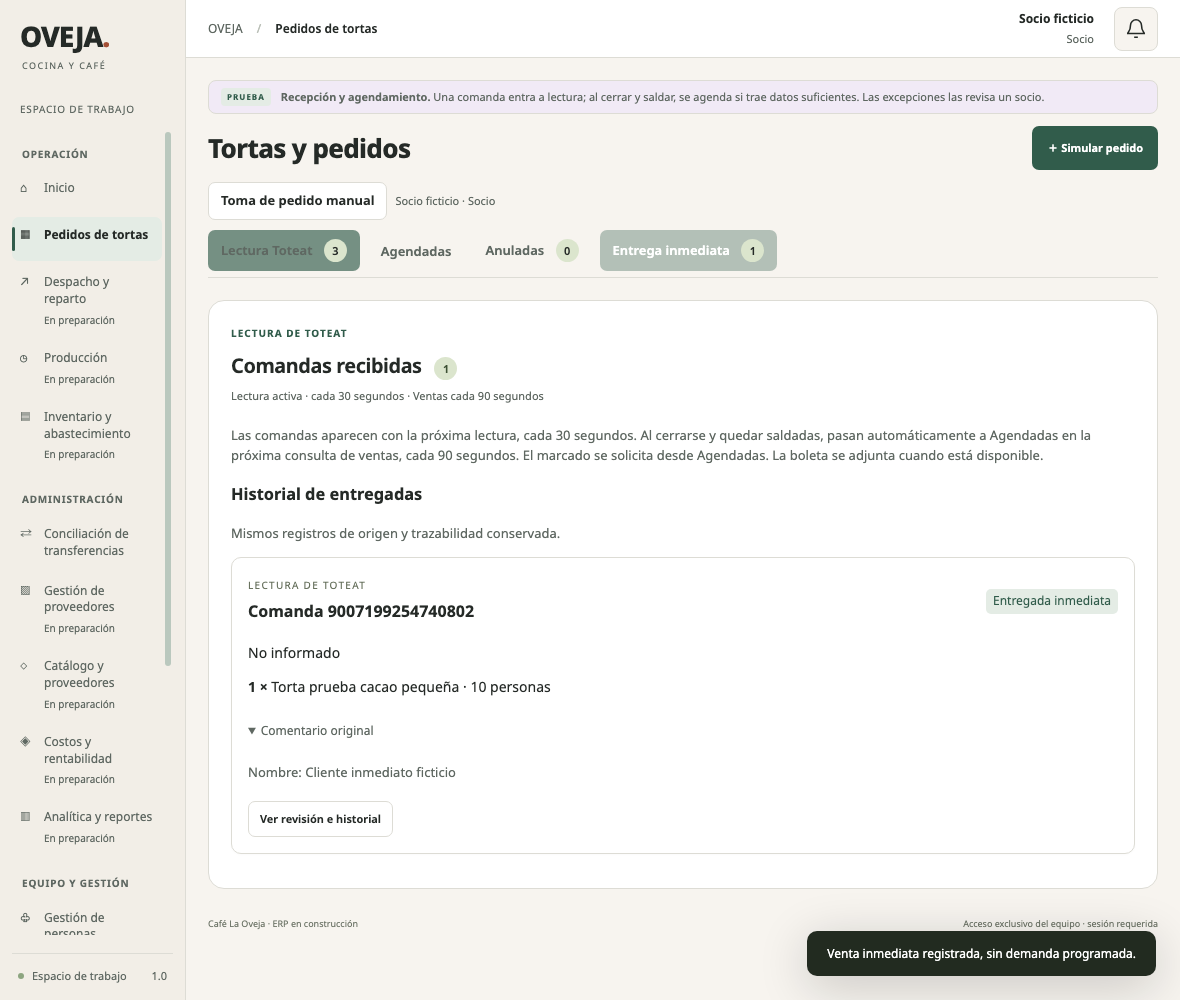
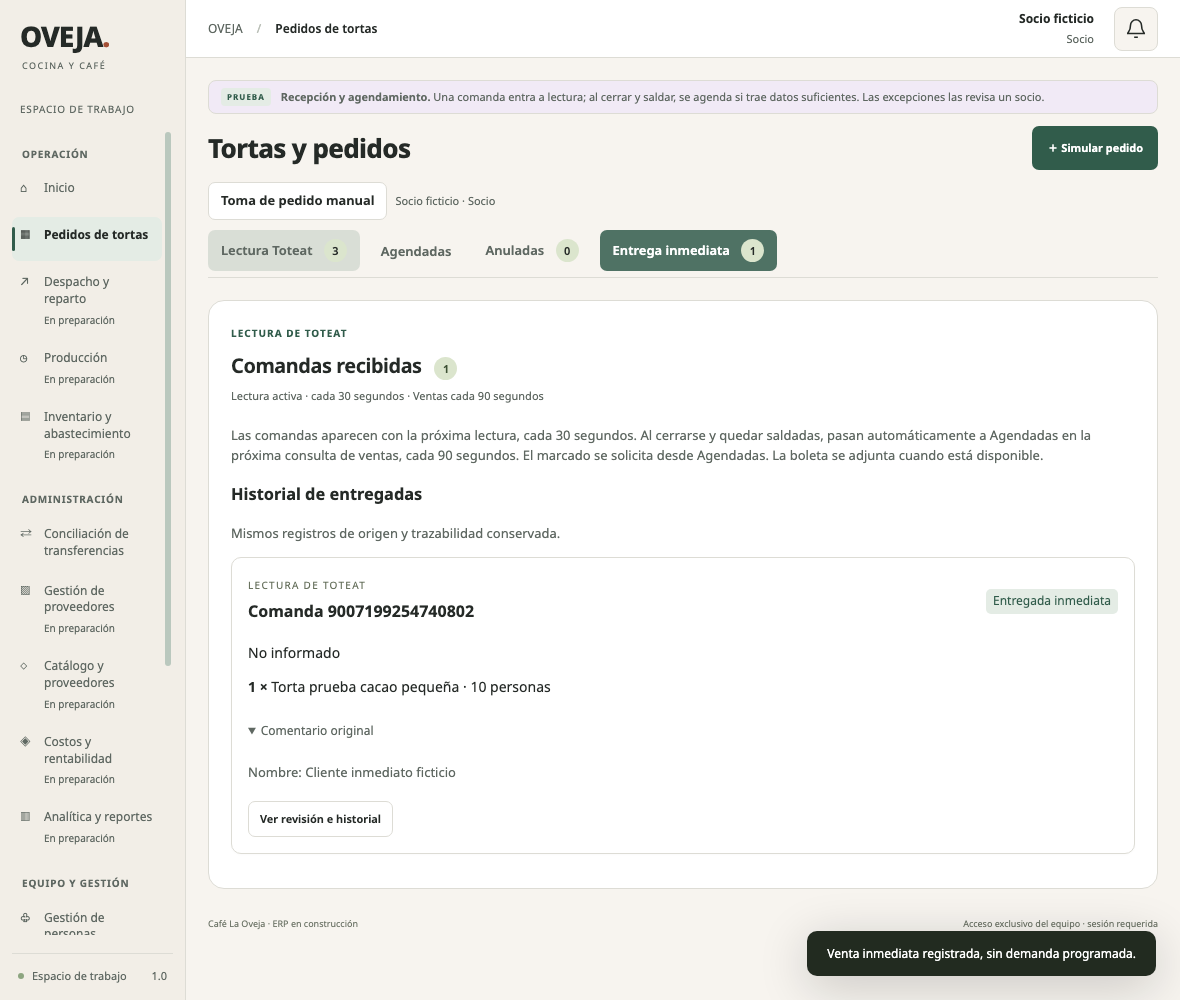
Finish HTTPS release with private evidence previews and deployment checks

Changed region(s): [[0.4881, 0.217, 0.6712, 0.279], [0.1525, 0.217, 0.3051, 0.279]]

diff --git a/static/reception.js b/static/reception.js
@@ -10,10 +10,10 @@ function receptionCard(order,resolved=false) {
   const immediate=reception.decision?.decision==='immediate';
   const closed=Boolean(reception.closed_at||order.sales_comment_evidence?.length||order.status_label==='CLOSED');
   const incomplete=reception.can_classify_immediate===true;
-  const title=alert?sourceAlertLabel(alert):immediate?'Entregada inmediata':reception.web_delivery_review?'Revisar modalidad web':incomplete?'Revisar tipo de entrega':closed&&!reception.closed_payload_received?'Esperando datos de venta cerrada':closed&&!reception.payment?'Mesa cerrada · revisar pago':closed?'Pendiente de revisión':'Esperando pago y cierre · Datos pendientes de recibir';
+  const title=alert?sourceAlertLabel(alert):immediate?'Entregada inmediata':reception.web_delivery_review?'Revisar programación web':incomplete?'Revisar tipo de entrega':closed&&!reception.closed_payload_received?'Esperando datos de venta cerrada':closed&&!reception.payment?'Mesa cerrada · revisar pago':closed?'Pendiente de revisión':'Esperando pago y cierre · Datos pendientes de recibir';
   const missing=reception.missing_fields||[...(reception.parsed?.issues||[]),...(reception.parsed?.warnings||[])].map(code=>({nombre_pendiente:'Nombre y apellido',fecha_pendiente:'Fecha de entrega',horario_pendiente:'Hora de entrega',telefono_pendiente:'Teléfono'}[code])).filter(Boolean);
 
-  return `<article class="reception-card"><header><div><small>LECTURA DE TOTEAT</small><h3>Comanda ${escapeHTML(order.order_id)}</h3></div><span class="timing-label">${escapeHTML(title)}</span></header><p>${escapeHTML(reception.channel||'No informado')}${order.vendor?` · ${escapeHTML(order.vendor)}`:''}</p>${sourceAlertHTML(alert)}${order.items.map(item=>`<p><strong>${escapeHTML(item.quantity)} ×</strong> ${escapeHTML(item.productName||'Producto del catálogo')}</p>`).join('')}<details data-comment-key="${escapeHTML(order.key)}" ${state.commentDisclosure.get(order.key)!==false?'open':''}><summary>Comentario original</summary><p class="source-comment">${escapeHTML(reception.closed_payload_received?(reception.original_comment||'La venta cerrada no trae comentario.'):(reception.original_comment||order.comments.map(c=>c.text).join('\n')||'Datos pendientes de recibir desde Toteat.'))}</p></details>${incomplete&&!immediate?`<p class="hint">Falta revisar: ${missing.map(escapeHTML).join(' · ')}. Confirma si fue entrega inmediata o completa los datos de agendamiento.</p>`:''}${reception.payment&&!immediate&&!reception.order_id?'<p class="hint">Venta cerrada y saldada. Completa los datos para agendar o clasifica como venta inmediata de stock.</p>':''}<div class="actions">${state.partner?`<button class="button ${resolved?'secondary':'primary'}" data-action="reception" data-key="${escapeHTML(order.key)}">${resolved?'Ver revisión e historial':alert&&!alert.resolution?'Revisar anulación':reception.order_id?'Revisar alerta y pedido':reception.payment?'Completar o clasificar':'Forzar agendamiento'}</button>`:'<small>La revisión y autorización corresponden a un socio.</small>'}${state.partner&&!resolved&&reception.can_classify_immediate===true?`<button class="button secondary" data-action="reception-immediate-open" data-key="${escapeHTML(order.key)}">Pasar a venta inmediata</button>`:''}${reception.order_id?`<button class="button secondary" data-action="detail" data-id="${reception.order_id}">Ver pedido agendado</button>`:''}</div></article>`;
+  return `<article class="reception-card"><header><div><small>LECTURA DE TOTEAT</small><h3>Comanda ${escapeHTML(order.order_id)}</h3></div><span class="timing-label">${escapeHTML(title)}</span></header><p>${escapeHTML(reception.channel||'No informado')}${order.vendor?` · ${escapeHTML(order.vendor)}`:''}</p>${sourceAlertHTML(alert)}${reception.web_delivery_review?'<p class="hint">Modalidad web pendiente de verificar. Si el comentario pide otro día u hora, un socio debe confirmar la programación. El pago no acredita entrega.</p>':''}${order.items.map(item=>`<p><strong>${escapeHTML(item.quantity)} ×</strong> ${escapeHTML(item.productName||'Producto del catálogo')}</p>`).join('')}<details data-comment-key="${escapeHTML(order.key)}" ${state.commentDisclosure.get(order.key)!==false?'open':''}><summary>Comentario original</summary><p class="source-comment">${escapeHTML(reception.closed_payload_received?(reception.original_comment||'La venta cerrada no trae comentario.'):(reception.original_comment||order.comments.map(c=>c.text).join('\n')||'Datos pendientes de recibir desde Toteat.'))}</p></details>${incomplete&&!immediate?`<p class="hint">Falta revisar: ${missing.map(escapeHTML).join(' · ')}. Confirma si fue entrega inmediata o completa los datos de agendamiento.</p>`:''}${reception.payment&&!immediate&&!reception.order_id?'<p class="hint">Venta cerrada y saldada. Completa los datos para agendar o clasifica como venta inmediata de stock.</p>':''}<div class="actions">${state.partner?`<button class="button ${resolved?'secondary':'primary'}" data-action="reception" data-key="${escapeHTML(order.key)}">${resolved?'Ver revisión e historial':alert&&!alert.resolution?'Revisar anulación':reception.order_id?'Revisar alerta y pedido':reception.payment?'Completar o clasificar':'Forzar agendamiento'}</button>`:'<small>La revisión y autorización corresponden a un socio.</small>'}${state.partner&&!resolved&&reception.can_classify_immediate===true?`<button class="button secondary" data-action="reception-immediate-open" data-key="${escapeHTML(order.key)}">Pasar a venta inmediata</button>`:''}${reception.order_id?`<button class="button secondary" data-action="detail" data-id="${reception.order_id}">Ver pedido agendado</button>`:''}</div></article>`;
 }
 function renderToteat() {
   const board=state.board,reader=board.toteat||{state:'not_configured',orders:[]};

diff --git a/static/transfers.js b/static/transfers.js
@@ -30,10 +30,10 @@ function renderClosures(selected){
   const rows=transferSnapshot?.closures||[],entry=rows.find(c=>c.date===selected)||rows[0],target=$('#transfer-results');
   if(!entry){target.innerHTML='<div class="empty compact">Ovejita todavía no tiene cierres archivados.</div>';return;}
   const r=entry.report;
-  target.innerHTML=`<label class="field">Fecha operativa<select id="closure-date">${rows.map(c=>`<option ${c===entry?'selected':''}>${escapeHTML(c.date)}</option>`).join('')}</select></label><h2>${escapeHTML(dateLabel(entry.date))}</h2><span class="timing-label">${r.completo?'Cierres disponibles':'Incompleto · requiere revisión'}</span>${(r.avisos||[]).map(a=>`<p class="source-alert">${escapeHTML(a)}</p>`).join('')}<div class="analytics-grid"><article><strong>${clp(r.total)}</strong><span>Ventas · ${r.ventas} ventas</span></article><article><strong>${clp(r.propinas)}</strong><span>Propinas</span></article><article><strong>${r.pendientes||0}</strong><span>Comprobantes pendientes</span></article><article><strong>${r.alertas_boleta||0}</strong><span>Alertas de boleta</span></article></div><h3>Ventas por caja</h3>${Object.entries(r.cajas||{}).map(([id,c])=>`<article class="transfer-row"><strong>${escapeHTML(id)} · ${escapeHTML(c.nombre)}</strong><span>${c.pagos} pagos · ${clp(c.total)} · Propinas ${clp(c.propinas)}</span></article>`).join('')}<h3>Medios de pago registrados</h3>${Object.entries(r.medios||{}).map(([k,v])=>`<p>${escapeHTML(k)} · ${clp(v)}</p>`).join('')}<h3>Aperturas y cierres</h3>${(r.cierres||[]).map(c=>`<article class="history-entry"><strong>Caja ${escapeHTML(c.caja)} · Turno ${escapeHTML(c.turno)} · ${c.cerrado?'Cerrada':'Abierta'}</strong><p>${escapeHTML(c.apertura)} → ${escapeHTML(c.cierre||'Pendiente')}</p></article>`).join('')}<p class="hint">${escapeHTML(r.base||'Fecha operativa informada por Toteat')}. Cajas excluidas: ${escapeHTML((r.excluidas||[]).join(', '))}. No confirma abonos bancarios.</p><details><summary>Detalle íntegro del informe conservado</summary><pre>${escapeHTML(JSON.stringify(r,null,2))}</pre></details>`;
+  target.innerHTML=`<label class="field">Fecha operativa<select id="closure-date">${rows.map(c=>`<option ${c===entry?'selected':''}>${escapeHTML(c.date)}</option>`).join('')}</select></label><h2>${escapeHTML(dateLabel(entry.date))}</h2><p class="hint">Envío del cierre: ${escapeHTML(entry.send_status||'Sin envío')}</p><span class="timing-label">${r.completo?'Cierres disponibles':'Incompleto · requiere revisión'}</span>${(r.avisos||[]).map(a=>`<p class="source-alert">${escapeHTML(a)}</p>`).join('')}<div class="analytics-grid"><article><strong>${clp(r.total)}</strong><span>Ventas · ${r.ventas} ventas</span></article><article><strong>${clp(r.propinas)}</strong><span>Propinas</span></article><article><strong>${r.pendientes||0}</strong><span>Comprobantes pendientes</span></article><article><strong>${r.alertas_boleta||0}</strong><span>Alertas de boleta</span></article></div><h3>Ventas por caja</h3>${Object.entries(r.cajas||{}).map(([id,c])=>`<article class="transfer-row"><strong>${escapeHTML(id)} · ${escapeHTML(c.nombre)}</strong><span>${c.pagos} pagos · ${clp(c.total)} · Propinas ${clp(c.propinas)}</span></article>`).join('')}<h3>Medios de pago registrados</h3>${Object.entries(r.medios||{}).map(([k,v])=>`<p>${escapeHTML(k)} · ${clp(v)}</p>`).join('')}<h3>Aperturas y cierres</h3>${(r.cierres||[]).map(c=>`<article class="history-entry"><strong>Caja ${escapeHTML(c.caja)} · Turno ${escapeHTML(c.turno)} · ${c.cerrado?'Cerrada':'Abierta'}</strong><p>${escapeHTML(c.apertura)} → ${escapeHTML(c.cierre||'Pendiente')}</p></article>`).join('')}<p class="hint">${escapeHTML(r.base||'Fecha operativa informada por Toteat')}. Cajas excluidas: ${escapeHTML((r.excluidas||[]).join(', '))}. No confirma abonos bancarios.</p><details><summary>Detalle íntegro del informe conservado</summary><pre>${escapeHTML(JSON.stringify(r,null,2))}</pre></details>`;
 }
 function renderBotHealth(){
   const data=transferSnapshot;
-  $('#transfer-results').innerHTML=`<p class="hint">Última copia ${escapeHTML(data.updated_at)}${data.stale?' · Lectura atrasada':''}</p>${data.health.map(h=>`<article class="transfer-row"><div><h3>${escapeHTML(h.componente)}</h3><span class="timing-label">${escapeHTML(h.estado)}</span><p>${escapeHTML(h.detalle)}</p><small>${escapeHTML(h.fecha)}</small></div></article>`).join('')}<h3>Alertas operativas</h3>${(data.alerts||[]).map(a=>`<article class="history-entry"><strong>${escapeHTML(a.tipo)}</strong><p>${escapeHTML(a.detalle)}</p><small>${escapeHTML(a.fecha)}</small></article>`).join('')||'<p>Sin alertas operativas registradas.</p>'}`;
+  $('#transfer-results').innerHTML=`<p class="hint">Mensajes con envío incierto: ${Number(data.uncertain_messages||0)} · Última copia ${escapeHTML(data.updated_at)}${data.stale?' · Lectura atrasada':''}</p>${data.health.map(h=>`<article class="transfer-row"><div><h3>${escapeHTML(h.componente)}</h3><span class="timing-label">${escapeHTML(h.estado)}</span><p>${escapeHTML(h.detalle)}</p><small>${escapeHTML(h.fecha)}</small></div></article>`).join('')}<h3>Alertas operativas</h3>${(data.alerts||[]).map(a=>`<article class="history-entry"><strong>${escapeHTML(a.tipo)}</strong><p>${escapeHTML(a.detalle)}</p><small>${escapeHTML(a.fecha)}</small></article>`).join('')||'<p>Sin alertas operativas registradas.</p>'}`;
 }
 document.addEventListener('change',event=>{if(event.target.id==='closure-date')renderClosures(event.target.value);});

diff --git a/static/app.js b/static/app.js
@@ -35,7 +35,7 @@ $('#custom-range').classList.toggle('hidden',state.period!=='custom');
 $('#previous').disabled=state.period==='custom'; $('#next').disabled=state.period==='custom';
 const paymentLabel = order => order.toteat_schedule ? (order.toteat_schedule.payment.state === 'discount_settled' ? 'Saldado con descuento' : 'Pago registrado en Toteat') : order.manual_scheduling ? (order.manual_scheduling.payment_status==='unpaid' ? (order.scheduling_status==='draft'?'Sin pago · pendiente de autorización':'Agendado sin pago') : 'Pago verificado por socio · registro manual') : 'Pago simulado confirmado';
 const scheduleWarnings = {telefono_pendiente:'Teléfono pendiente',telefono_por_revisar:'Revisar teléfono',fecha_pasada:'La fecha indicada ya pasó',anio_inferido:'Año inferido de la fecha de la venta'};
-const receiptLinks = order => !can('receipt') ? 'Disponible para socios y caja' : order.receipt?.status === 'verified' ? `<a class="button secondary" href="/api/orders/${order.id}/receipt" target="_blank" rel="noopener">Ver boleta PDF</a> <a class="button secondary" href="/api/orders/${order.id}/receipt?download=1" download>Descargar para enviar</a>` : 'Boleta aún no recibida';
+const receiptLinks = order => !can('receipt') ? 'Disponible para socios y caja' : order.receipt?.status === 'verified' ? `<button class="button secondary" data-action="receipt-preview" data-id="${order.id}">Ver boleta PDF</button> <a class="button secondary" href="/api/orders/${order.id}/receipt?download=1" download>Descargar para enviar</a>` : 'Boleta aún no recibida';
 const labels = {marcado_solicitado:'Marcado solicitado',pendiente:'Pendiente de marcado', solicitado:'Solicitado a producción (histórico)', marcado:'Marcado físico', entregado:'Entregado', cancelado:'Cancelado'};
 const timingLabels = {scheduled:'Programada',immediate:'Inmediata · entrega confirmada',unclassified:'Tipo de entrega por confirmar'};
 const next = {pendiente:'marcado_solicitado', marcado_solicitado:'marcado', marcado:'entregado'};
@@ -480,6 +480,10 @@ document.addEventListener('click', async event => {
   const action = button.dataset.action;
   if (state.saving) return;
   if(button.dataset.view){state.view=button.dataset.view;rememberView();renderOperations();}
+  if(action==='receipt-preview'&&can('receipt')){
+    const id=Number(button.dataset.id);
+    modal('Boleta adjunta','Vista previa del documento',`<iframe class="receipt-preview" src="/api/orders/${id}/receipt" title="Vista previa de boleta PDF"></iframe>`,`<button class="button secondary" data-action="detail" data-id="${id}">Volver al pedido</button><a class="button primary" href="/api/orders/${id}/receipt?download=1" download>Descargar boleta</a>`,'DOCUMENTO DEL PEDIDO');
+  }
   if(action==='view-tests'){state.scope='tests';state.view='agenda';$('#record-scope').value='tests';await loadBoard();}
   if (action === 'close') { state.panelRequest++; $('#modal').close(); }
   if (action === 'detail') await showDetail(button.dataset.id);

diff --git a/static/theme.css b/static/theme.css
@@ -173,3 +173,5 @@ dialog{background:var(--surface);border-radius:12px;width:min(780px,calc(100vw -
 [data-theme="c"] .order-header,[data-theme="c"] .item-row,[data-theme="c"] .summary-row,[data-theme="c"] .home-order{border-color:var(--line)}
 [data-theme="c"] .source-alert.cancelled{background:var(--danger-bg);color:var(--danger)}
 [data-theme="c"] .search input{background:transparent}
+
+.receipt-preview{display:block;width:100%;height:65dvh;border:1px solid var(--line);border-radius:8px;background:#fff}

diff --git a/scripts/export_bot_transfers.py b/scripts/export_bot_transfers.py
@@ -21,6 +21,12 @@ def export_snapshot(database,destination,names=None,evidence_root=None):
 
         tables={r[0] for r in db.execute("SELECT name FROM sqlite_master WHERE type='table'")}
         closures=[{'date':r[0],'updated_at':r[1],'report':json.loads(r[2])} for r in db.execute('SELECT fecha,actualizado,informe FROM cierres_diarios ORDER BY fecha DESC LIMIT 366')] if 'cierres_diarios' in tables else []
+        uncertain=0
+        if 'bot_salidas' in tables:
+            uncertain=db.execute("SELECT COUNT(*) FROM bot_salidas WHERE estado='incierto'").fetchone()[0]
+            for closure in closures:
+                sent=db.execute('SELECT estado FROM bot_salidas WHERE mensaje_id=?',('cierre:'+closure['date'],)).fetchone()
+                closure['send_status']=sent[0] if sent else 'Sin envío'
         alerts=[dict(r) for r in db.execute('SELECT fecha,revision_id,tipo,detalle FROM alertas_operativas ORDER BY fecha DESC LIMIT 20')] if 'alertas_operativas' in tables else []
         health=[dict(r) for r in db.execute('SELECT componente,estado,detalle,fecha FROM salud ORDER BY componente')]
         histories={}
@@ -50,7 +56,7 @@ def export_snapshot(database,destination,names=None,evidence_root=None):
         row['estados']=json.loads(row['estados']);row['alertas']=json.loads(row['alertas'])
         row['history']=histories.get(row['id'],[])
         rows.append(row)
-    data={'version':1,'updated_at':datetime.now(timezone.utc).isoformat(),'rows':rows,'health':health,'closures':closures,'alerts':alerts}
+    data={'version':1,'updated_at':datetime.now(timezone.utc).isoformat(),'rows':rows,'health':health,'closures':closures,'alerts':alerts,'uncertain_messages':uncertain}
     destination.parent.mkdir(parents=True,exist_ok=True)
     descriptor,temporary=tempfile.mkstemp(prefix='.transfers-',dir=destination.parent)
     try:

diff --git a/tests/test_server_integrations.py b/tests/test_server_integrations.py
@@ -86,6 +86,15 @@ class ServerIntegrationTests(unittest.TestCase):
         target.write_bytes(b'corrupt fixture')
         with self.assertRaises(ValueError):backup_evidence(source, destination)
 
+    def test_bot_projection_preserves_closure_send_state_and_uncertain_count(self):
+        db,_,_=self.bot_fixture()
+        with closing(sqlite3.connect(db)) as connection,connection:
+            connection.executescript("CREATE TABLE cierres_diarios(fecha TEXT,actualizado TEXT,informe TEXT); CREATE TABLE bot_salidas(mensaje_id TEXT,estado TEXT); INSERT INTO cierres_diarios VALUES('2026-10-04','2026-10-04T21:00:00+00:00','{}'); INSERT INTO bot_salidas VALUES('cierre:2026-10-04','enviada'); INSERT INTO bot_salidas VALUES('mensaje-ficticio','incierto');")
+        target=self.root/'out/transfers.json';export_snapshot(db,target)
+        result=read_transfers(target,dict(start='2026-10-01',end='2026-10-31'))
+        self.assertEqual(result['closures'][0]['send_status'],'enviada')
+        self.assertEqual(result['uncertain_messages'],1)
+
     def test_linux_reader_has_fixed_get_modes_scope_limits_and_no_credential_reflection(self):
         (self.root/'toteat').write_text(json.dumps(dict(xir='111',xil='1',xiu='222',xapitoken='FAKE-TEST-SECRET')))
         seen=[]

diff --git a/app.py b/app.py
@@ -79,7 +79,8 @@ def handler_for(store, data_root=None, public_origin=None, transport=BaseHTTPReq
             self.send_header("Cache-Control", "no-store")
             self.send_header("X-Content-Type-Options", "nosniff")
             self.send_header("Referrer-Policy", "no-referrer")
-            self.send_header("Content-Security-Policy", "default-src 'self'; script-src 'self'; style-src 'self'; img-src 'self' data:; connect-src 'self'; object-src 'none'; base-uri 'none'; frame-ancestors 'none'; form-action 'self'")
+            frame_ancestors="'self'" if content_type.startswith('application/pdf') else "'none'"
+            self.send_header("Content-Security-Policy", f"default-src 'self'; script-src 'self'; style-src 'self'; img-src 'self' data:; connect-src 'self'; object-src 'none'; base-uri 'none'; frame-ancestors {frame_ancestors}; form-action 'self'")
             self.end_headers()
             self.wfile.write(payload)
 

diff --git a/erp/transfers.py b/erp/transfers.py
@@ -36,7 +36,7 @@ def read_transfers(path,params):
     return {'configured':True,'updated_at':snapshot['updated_at'],'stale':(datetime.now(timezone.utc)-updated).total_seconds()>180,
             'start':str(start),'end':str(end),'page':page,'page_size':50,'total':len(rows),'rows':rows[(page-1)*50:page*50],
             'summary':{'compatible':sum(bool(r['compatible']) for r in rows),'pending':sum(r['pending'] for r in rows),'sales':len(unique),'expected_amount':sum(unique.values())},
-            'health':snapshot.get('health',[]),'alerts':snapshot.get('alerts',[]),'closures':snapshot.get('closures',[]),'source':'Ovejita','read_only':True}
+            'health':snapshot.get('health',[]),'alerts':snapshot.get('alerts',[]),'closures':snapshot.get('closures',[]),'uncertain_messages':snapshot.get('uncertain_messages',0),'source':'Ovejita','read_only':True}
 
 
 def read_photo(snapshot_path,revision_id):

diff --git a/docs/CHECKPOINT.md b/docs/CHECKPOINT.md
@@ -1,3 +1,18 @@
+# Entrega desplegada · 2026-10-05 UTC
+
+- **HTTPS activo:** https://erp.loxby.cl. Diseño A. Acceso con las cuentas existentes; perfiles y datos privados protegidos por servidor. Localhost solo redirige al servidor, sin escribir datos.
+- **Migración completada y verificada:** SQLite, cuentas con sal/hash, historial y boleta. Respaldo privado anterior al corte; sin duplicados de fuente. El lector del Mac está deshabilitado; lector Linux activo, GET de comandas/ventas/anulaciones conocidas, sin escritura a Toteat.
+- **Recepción:** comentario abierto por defecto y cierre manual respetado en la sesión; Forzar agendamiento solo socios con motivo; venta inmediata presencial solo con venta cerrada/saldada recibida y comentario vacío/incompleto, confirmación e historial. Descuento saldado no se presenta como dinero recibido. Anular en ERP requiere confirmación; se conserva el historial. Cuatro pestañas con los mismos registros, sin duplicación.
+- **Bot en producción:** proyección privada de revisiones, comanda elegida, cajera/monto, verificaciones, historial, cierres, estado del envío y salud. Archivo de futuras fotos/selecciones activado, con respaldo del código y SQLite de Ovejita y worker activo. Sin imágenes históricas inventadas. Foto y boleta con vista previa y descarga en el mismo diálogo.
+- **Verificación:** 203 pruebas Python locales; 201 de la versión previa aprobadas en Ubuntu y suite final pendiente al escribir este checkpoint. QA con fixtures 1180/320 de permisos, confirmaciones/cancelación, doble clic, cuatro pestañas/recarga, comentario, boleta/foto y venta exacta. Login anónimo del HTTPS real verificado en Chrome dedicado 1180/320, sin desbordes ni errores JS. Evidencia privada: `private/login-server-*.png`; servidor `/var/lib/oveja-erp/private/deployment-evidence.json`.
+- **Respaldos activos:** ERP SQLite/boletas y archivo incremental de fotos/selecciones. Todos los servicios originales de Ovejita continúan activos. No se copiaron credenciales a GitHub ni se crearon cuentas reales nuevas.
+- **Pendiente concreto WEB/Mercat:** falta payload/contrato verificable de ASAP, programación y pago de una mesa abierta web. Los casos identificados web quedan en revisión, sin declarar entrega por pago, sin usar creación/ETA como fecha solicitada y sin autoagendar por datos de cliente. Conflictos entre modalidad y comentario requieren confirmación del socio. La muestra real disponible no traía esos campos. No afirmar integración web automática terminada.
+- **Panel anterior conservado:** información contrastada con la proyección; falta reemplazar sus acciones manuales de seguimiento y exportación CSV antes de retirarlo con paridad funcional. No se amplió el permiso de escritura a la base del bot, pues se pidió traer información.
+- **Límite de validación:** no se inició sesión real usando contraseñas desconocidas ni se creó una venta/transferencia ficticia en producción. Las comprobaciones de acciones UI usan fixtures; una nueva foto real del bot y la prueba de ingreso de la socia quedan para aceptación del usuario.
+- Módulos futuros explícitamente sin datos. Sin GPS, GeoVictoria, Power BI, compras/pagos ni otros pipelines conectados. Pendientes de operación: copia externa cifrada/retención y política de cuentas.
+
+## Registro histórico de preparación (no describe el estado actual)
+
 # Estado de la entrega actual · 4 octubre 2026
 
 Carpeta correcta: `/Users/estebaniturra/Documents/ChatGPT/ERP Oveja`. No se borró el origen ni se incorporaron archivos privados a Git.

diff --git a/docs/PREPARACION_SERVIDOR.md b/docs/PREPARACION_SERVIDOR.md
@@ -22,6 +22,19 @@ Ovejita permanece separado. El exportador corre como su usuario, consulta SQLite
 
 Para las fotos nuevas, el hook de archivo se añade al flujo del bot luego de probar una copia aislada. Conserva la imagen por SHA-256 y la selección confirmada; no altera la validación, mensajes, registro de pagos ni credenciales. Una falla de archivo no impide al bot revisar el comprobante. El panel antiguo solo se retira tras verificar que revisiones, seguimiento y cierres estén disponibles en el ERP; conservar código/configuración para reversión.
 
-Respaldos: timer diario de SQLite y boletas. Verificar restauración a carpeta nueva. Sigue pendiente configurar destino externo cifrado y política de retención. El timer `oveja-erp-evidence-backup` conserva fotos y selección exacta en `/var/backups/cafeteria/erp-evidence`, con objetos por SHA-256 y manifiestos privados. La proyección se reconstruye desde SQLite y ese archivo; nunca publicar estas copias.
+Respaldos: timer diario de SQLite y boletas. Verificar restauración a carpeta nueva. Sigue pendiente configurar destino externo cifrado y política de retención. El timer `oveja-erp-evidence-backup` conserva fotos y selección exacta en `/var/backups/oveja-erp-evidence`, con objetos por SHA-256 y manifiestos privados. La proyección se reconstruye desde SQLite y ese archivo; nunca publicar estas copias.
 
 Cambiar dominio: crear DNS, ajustar `OVEJA_PUBLIC_ORIGIN` y bloque Caddy, validar y recargar. Los datos no dependen del dominio.
+
+
+## Estado de despliegue y reversión
+
+ERP activo en https://erp.loxby.cl con diseño A. El lector local está deshabilitado y localhost solo redirige al HTTPS. Los datos operativos permanecen en `/var/lib/oveja-erp`; nunca volver a habilitar dos escritores sin conciliación.
+
+El código está versionado en `/opt/oveja-erp/releases/` y `app` apunta a la versión activa. Ante un fallo de código, detener el lector, apuntar `app` a la versión anterior verificada y reiniciar solo los servicios ERP. Conservar la base de producción actual: restaurar una copia antigua podría perder movimientos posteriores.
+
+Caddy conserva un respaldo `Caddyfile.before-oveja-erp-*` en `/etc/caddy/`. Validar la configuración antes de recargar. Los servicios webhook, worker y monitor del bot no dependen del ERP.
+
+El archivo original del flujo de Ovejita y una copia SQLite íntegra se conservan en `/var/backups/cafeteria/before-erp-evidence-*`. Para revertir el hook de fotografías, restaurar solo su archivo Python y reiniciar `cafeteria-worker` cuando no esté procesando/enviando. No restaurar la base antigua sobre revisiones nuevas. Las fotos archivadas se preservan.
+
+El panel previo se conserva hasta reemplazar sus acciones de seguimiento/exportación y verificar la aceptación funcional. La lectura, fotos nuevas y descarga del ERP ya usan su propia interfaz y sus permisos.
